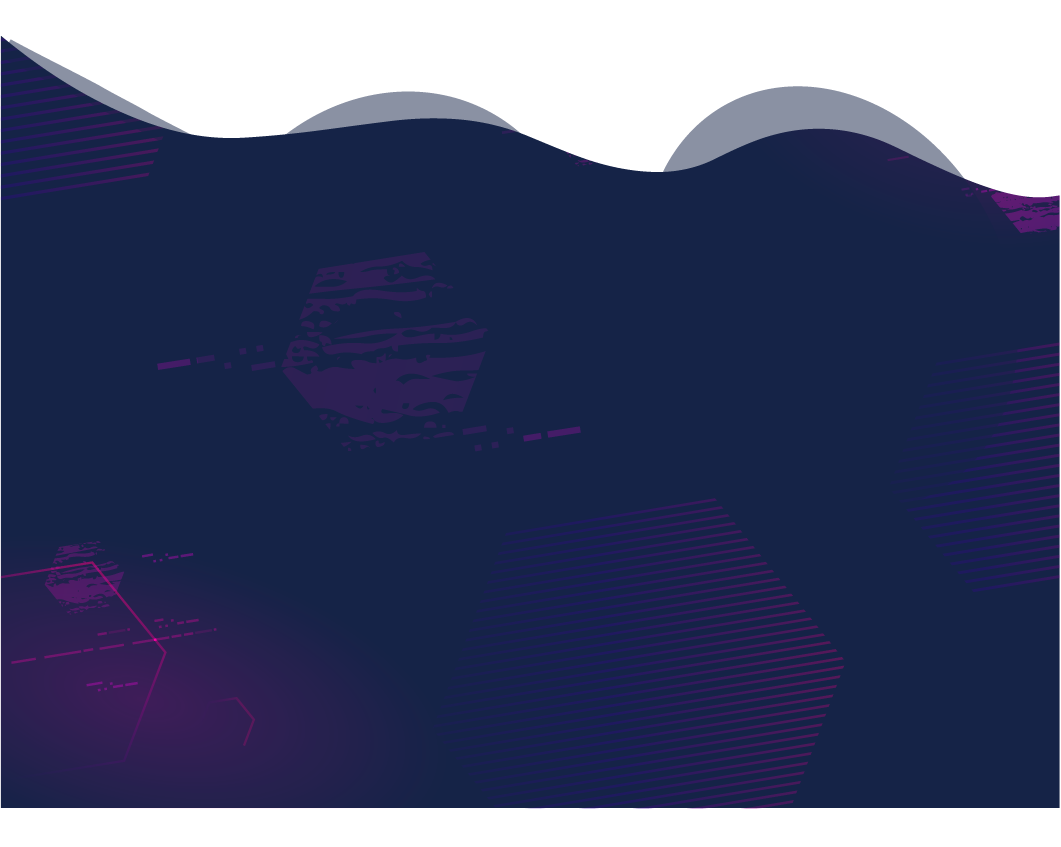
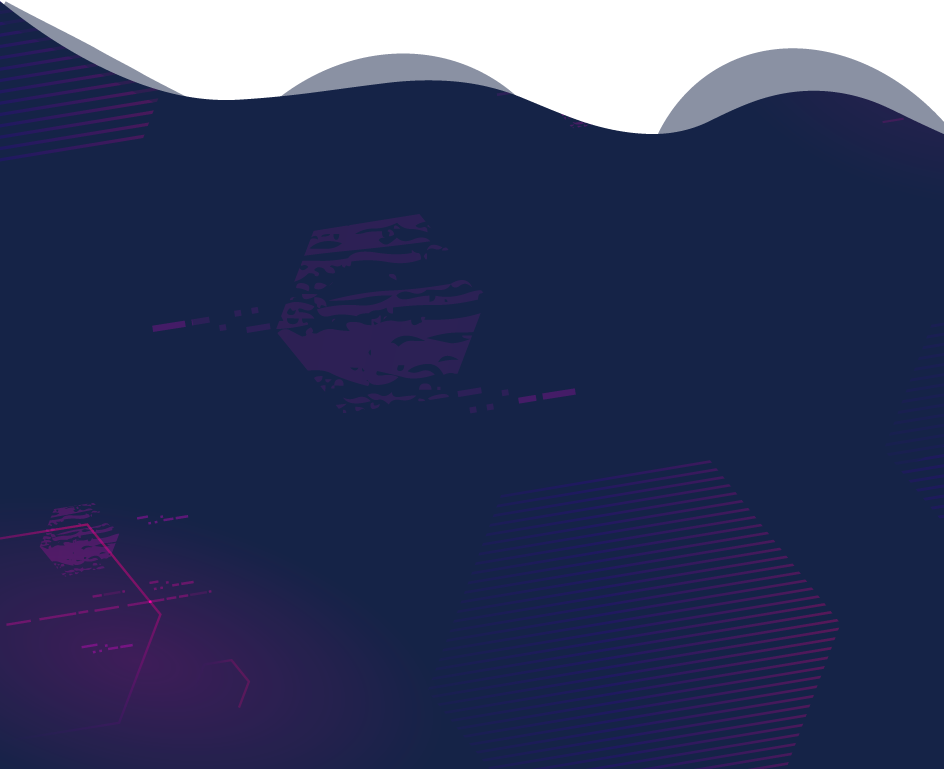
Final changes added

diff --git a/style.css b/style.css
@@ -28,7 +28,8 @@ html {
   src: url("fonts/lbv.otf");
 }
 
-body {overflow-x: hidden;
+body {
+  overflow-x: hidden;
   color: #2f2f2f;
   /* background-color: #0d1e45;*/
   /*  font-family: 'Share Tech Mono', monospace;*/
@@ -592,7 +593,7 @@ a:active {
 # Homepage - Info Section
 --------------------------------------------------------------*/
 .homepage-info-section {
-  padding: 120px 0;
+  padding: 60px 0;
   background: #fff;
 }
 
@@ -626,68 +627,65 @@ a:active {
   margin-right: 18px;
 }
 
-
-.main{
-overflow: hidden;
+.main {
+  overflow: hidden;
 }
-
 
 .wave {
-    position: absolute;
-overflow: hidden;
-    left: 0;
-    width: 200%;
-    height: 100%;
-    background-repeat: repeat ;
-    background-position: 0 bottom;
-    transform-origin: center bottom;
+  position: absolute;
+  overflow: hidden;
+  left: 0;
+  width: 200%;
+  height: 100%;
+  background-repeat: repeat;
+  background-position: 0 bottom;
+  transform-origin: center bottom;
 }
 
-.top{
+.top {
   background-size: 50% 100px;
-  height:100px;
+  height: 100px;
   margin-top: -100px;
 }
 
-.mid{
-   background-size: 50% 100px;
-   height:100px;
+.mid {
+  background-size: 50% 100px;
+  height: 100px;
   margin-top: -100px;
   opacity: 0.7;
-animation :move 8s linear infinite;
+  animation: move 8s linear infinite;
 }
 
-@keyframes move{
- 0% {
-        transform: translateX(0) translateZ(0) scaleY(1)
-    }
-    50% {
-        transform: translateX(-25%) translateZ(0) scaleY(0.55)
-    }
-    100% {
-        transform: translateX(-50%) translateZ(0) scaleY(1)
-    }
+@keyframes move {
+  0% {
+    transform: translateX(0) translateZ(0) scaleY(1);
+  }
+  50% {
+    transform: translateX(-25%) translateZ(0) scaleY(0.55);
+  }
+  100% {
+    transform: translateX(-50%) translateZ(0) scaleY(1);
+  }
 }
 
-.bot{
-   background-size: 50% 100px;
-   height:100px;
+.bot {
+  background-size: 50% 100px;
+  height: 100px;
   margin-top: -100px;
-opacity: 0.4;
-animation:move1 12s linear infinite;
+  opacity: 0.4;
+  animation: move1 12s linear infinite;
 }
 
-
-@keyframes move1{
-0% {
-        transform: translateX(0) translateZ(0) scaleY(1)
-    }
-    50% {
-        transform: translateX(-25%) translateZ(0) scaleY(0.55)
-    }
-    100% {
-        transform: translateX(-50%) translateZ(0) scaleY(1)
-    }
+@keyframes move1 {
+  0% {
+    transform: translateX(0) translateZ(0) scaleY(1);
+  }
+  50% {
+    transform: translateX(-25%) translateZ(0) scaleY(0.55);
+  }
+  100% {
+    transform: translateX(-50%) translateZ(0) scaleY(1);
+  }
 }
 
 /*--------------------------------------------------------------
@@ -1171,7 +1169,7 @@ animation:move1 12s linear infinite;
 }
 
 .events-partners {
-  padding: 120px 0;
+  padding: 60px 0;
 }
 
 .events-partners .entry-title {
@@ -1181,7 +1179,7 @@ animation:move1 12s linear infinite;
 .events-partners-logos .event-partner-logo img {
   width: 250px;
   min-width: 220px;
-  margin-top: 80px;
+  margin-top: 60px;
   text-align: center;
 }
 

diff --git a/index.html b/index.html
@@ -97,7 +97,8 @@
 
                                     <h2 class="entry-title " style="opacity: 0;" data-wow-duration="2s" data-wow-delay="1s" style="font-size: 48px;" ><br>Hacktober Fest 2k19</h2>
                                 <div class="entry-footer">
-                                    <a class="btn gradient-bg wow flipInX" data-wow-duration="2s" data-wow-delay="1.5s" href="#">Register Here</a>
+                                    <a class="btn gradient-bg wow flipInX" data-wow-duration="2s" data-wow-delay="1.5s" href="https://forms.gle/2JuAFYasYPVoYtuF7">Register Here</a>
+                                    
                                 </div><!-- .entry-footer" -->
                                 
                                 </div><!--- .entry-header -->
@@ -137,8 +138,8 @@
                 </div>
 
                 <footer class="entry-footer">
-                    <a href="#" class="btn gradient-bg">Read More</a>
-                    <a href="#" class="btn dark">Register Now</a>
+                    <a href="https://forms.gle/2JuAFYasYPVoYtuF7" class="btn gradient-bg">Register Now</a>
+                    
                 </footer>
             </div>
         </div>
@@ -240,7 +241,7 @@
                     <header class="entry-header">
                         <h3 class="entry-title">Fun Workshops !</h3>
 
-                        <div class="posted-date">Dates <span>will be updated</span></div>
+                        <div class="posted-date">Dates <span>will be updated soon</span></div>
                     </header>
 
                     <div class="entry-content">
@@ -264,7 +265,7 @@
                     <header class="entry-header">
                         <h3 class="entry-title">Expert talks !</h3>
 
-                        <div class="posted-date">Dates <span>will be updated</span></div>
+                        <div class="posted-date">Dates <span>will be updated soon</span></div>
                     </header>
 
                     <div class="entry-content">
@@ -288,7 +289,7 @@
                     <header class="entry-header">
                         <h3 class="entry-title">Coding events !</h3>
 
-                        <div class="posted-date">Dates <span>will be updated</span></div>
+                        <div class="posted-date">Dates <span>will be updated soon</span></div>
                     </header>
 
                     <div class="entry-content">
